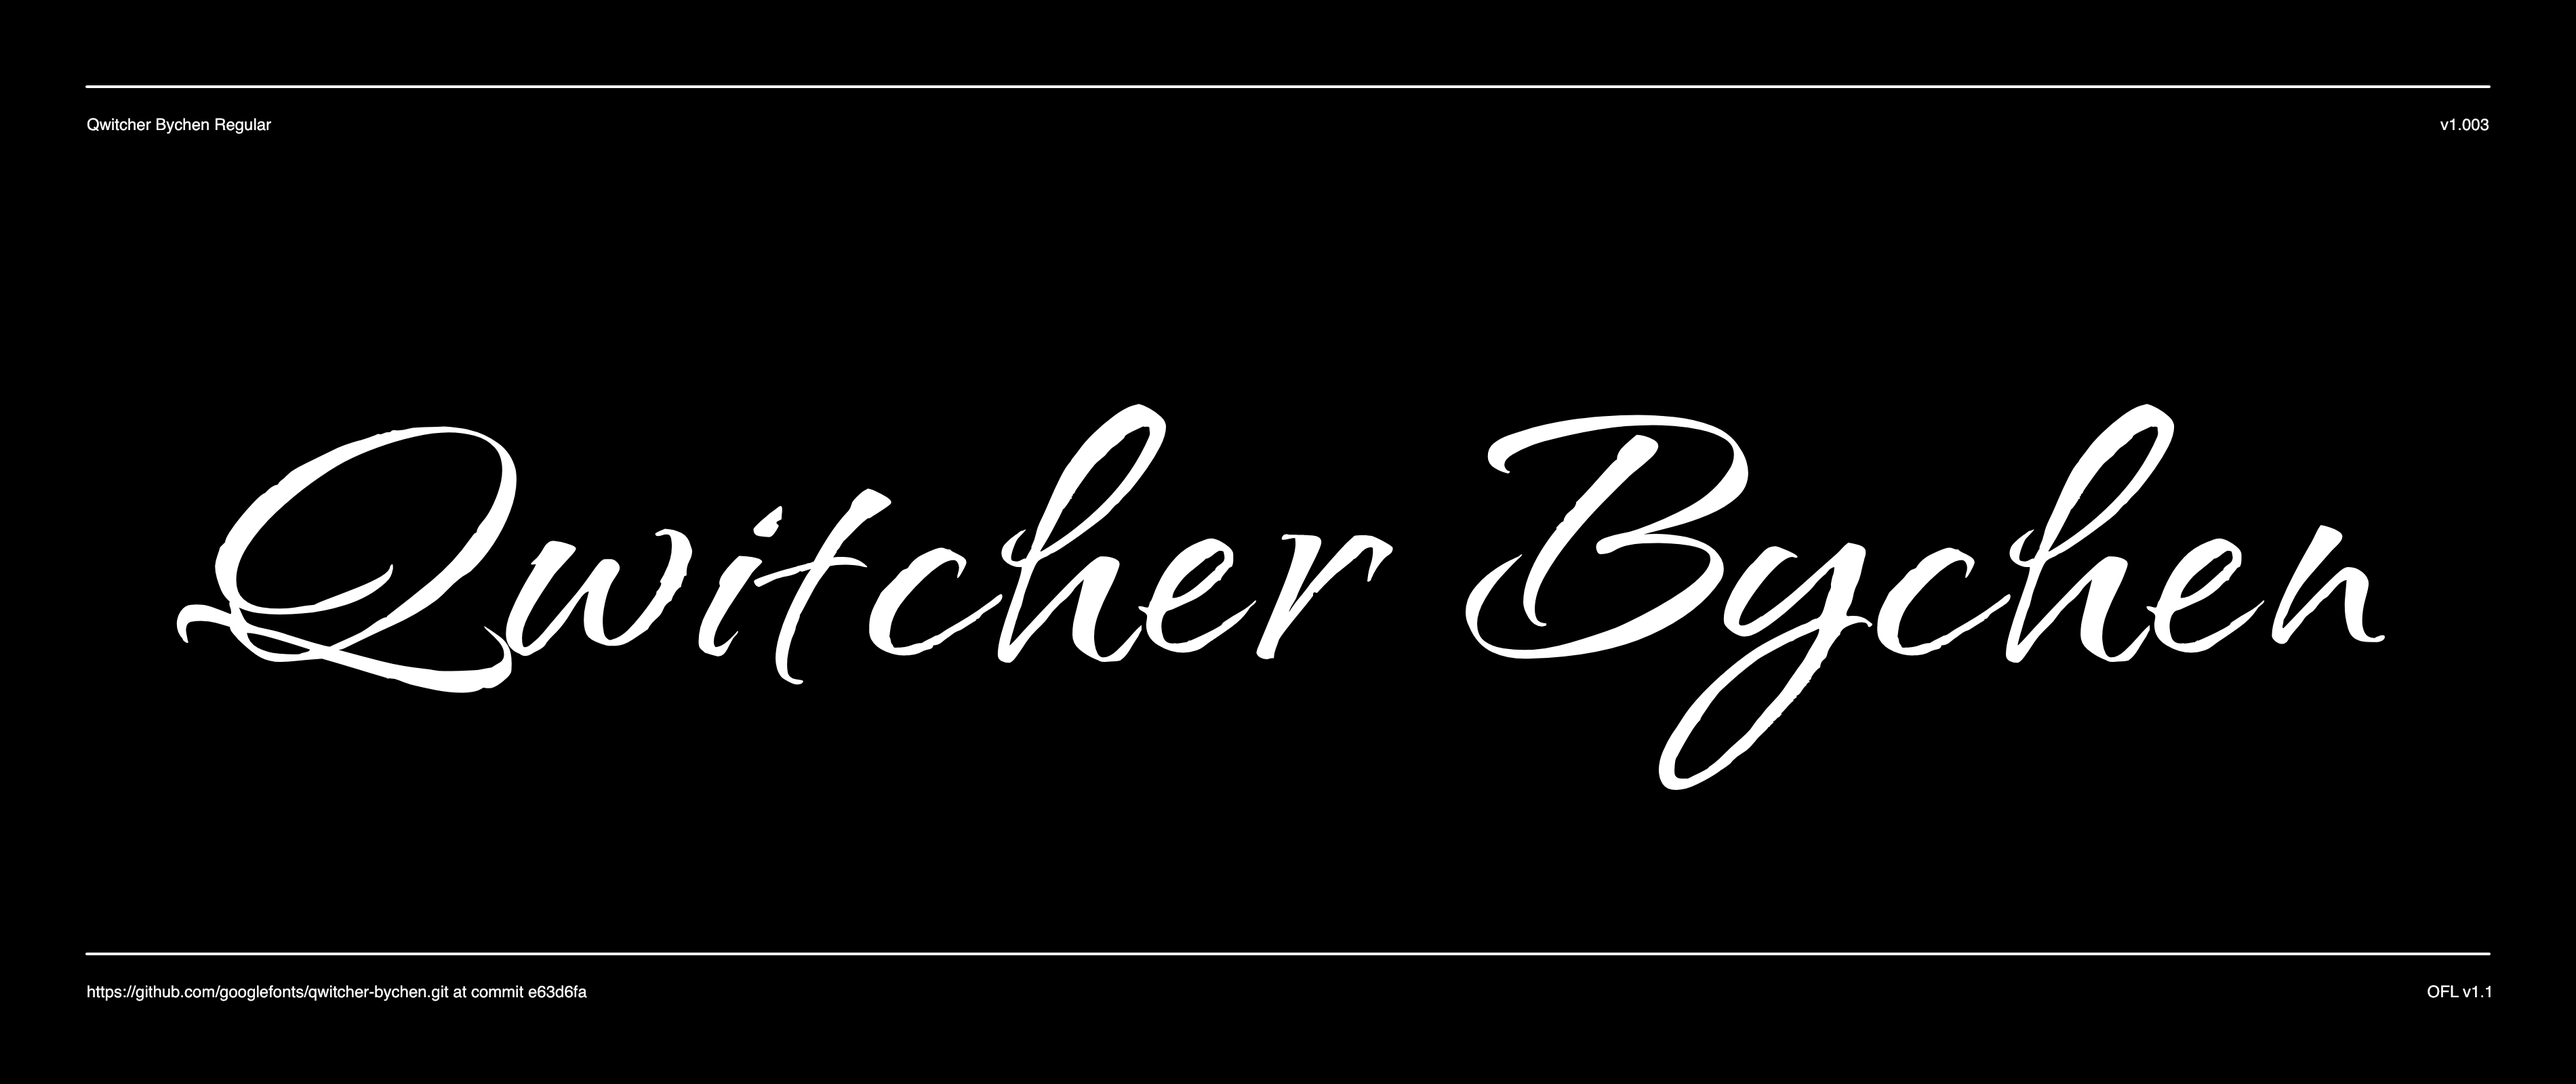
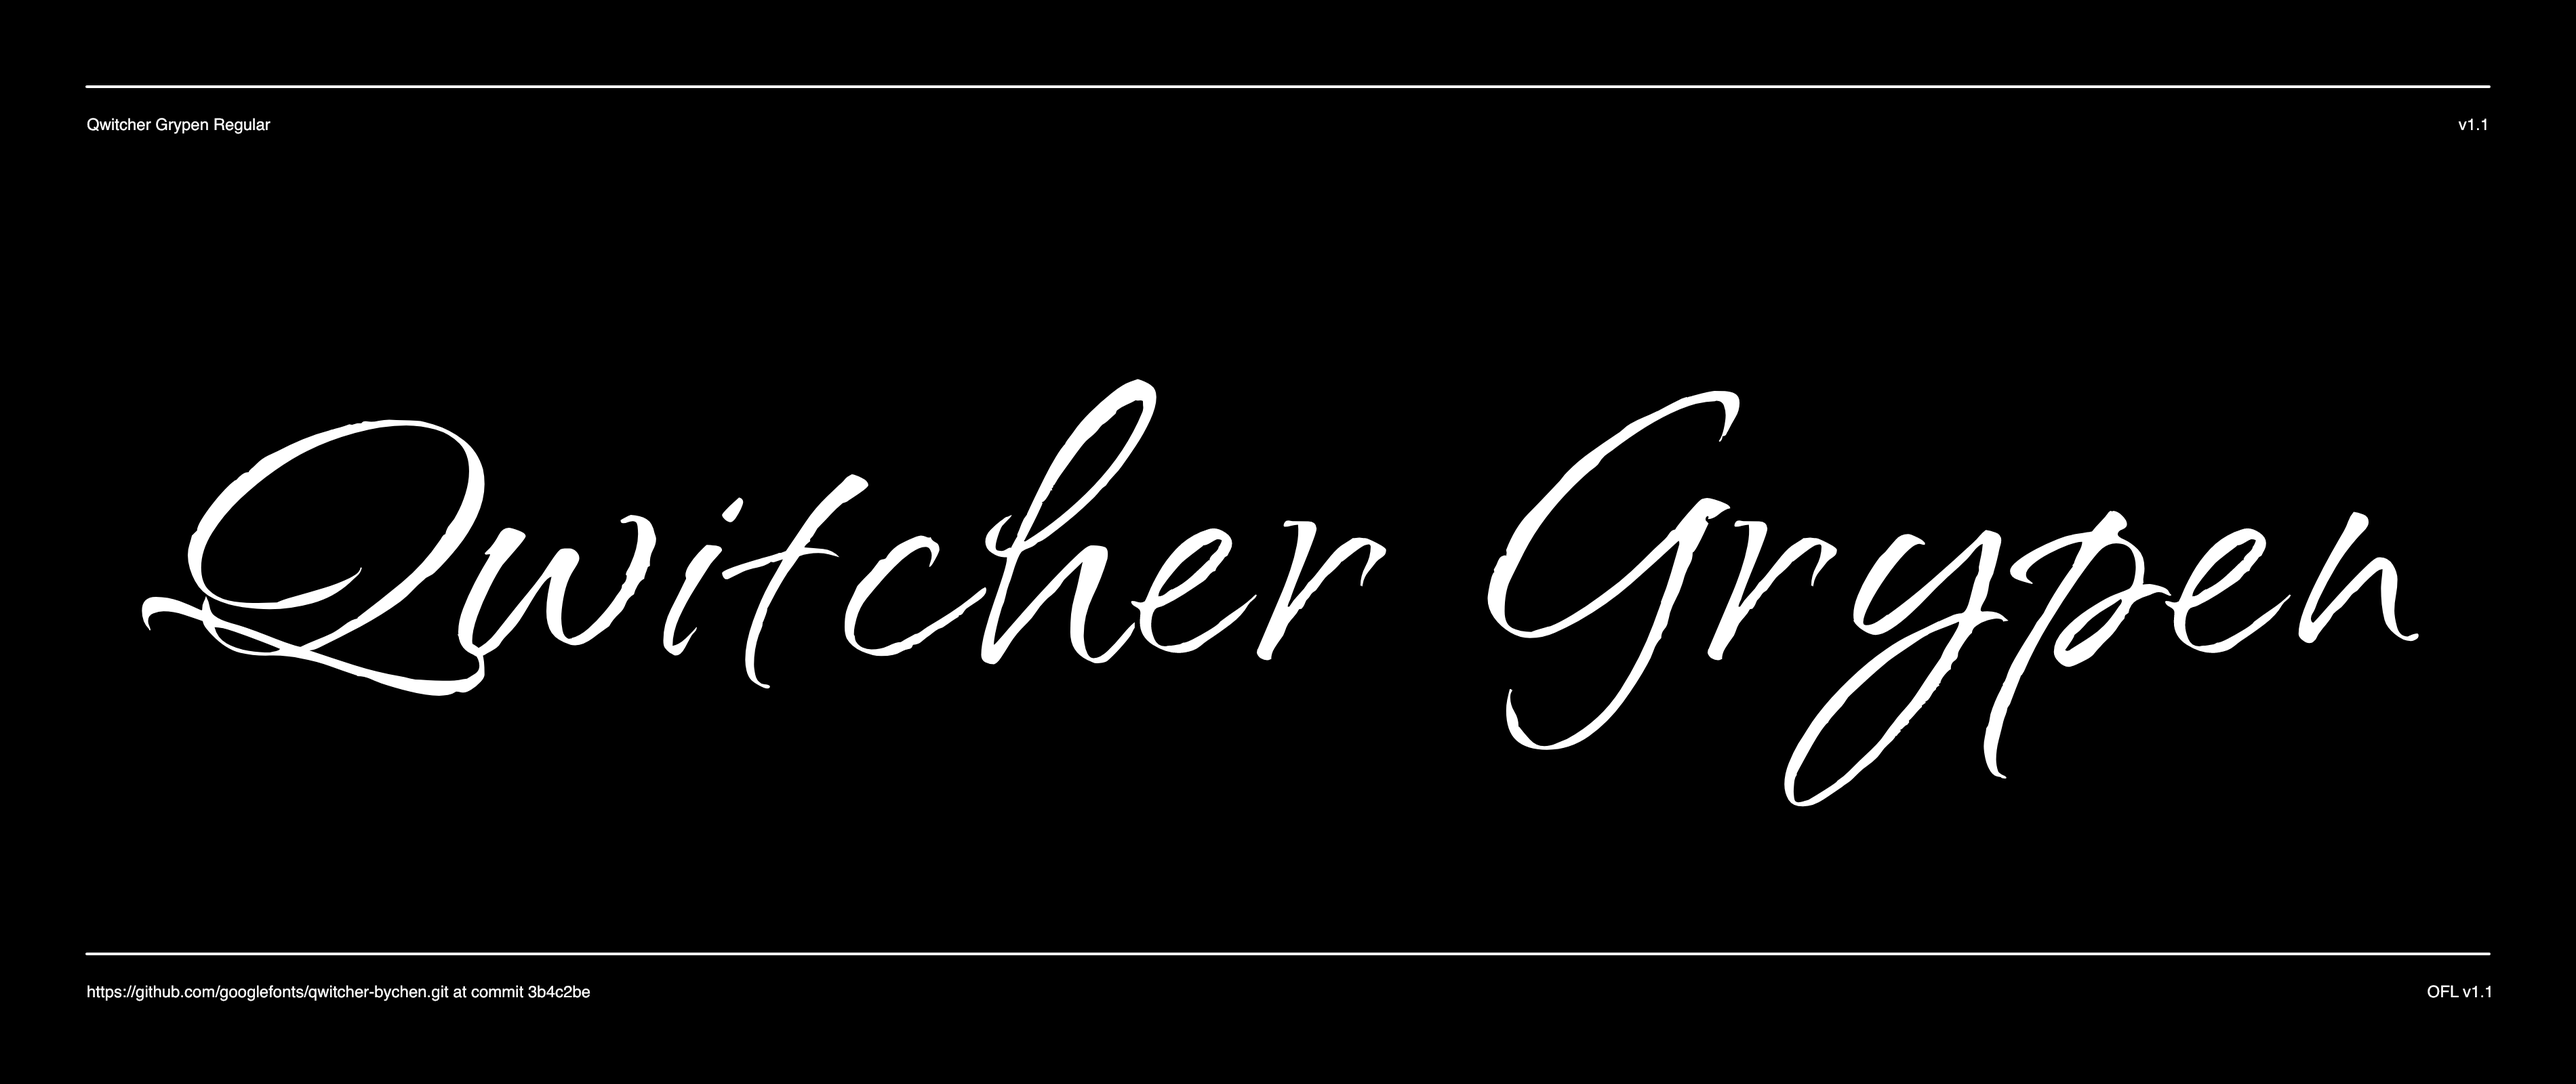
Readme file + sample image updated to Grypen

Changed region(s): [[0.0621, 0.3438, 0.9316, 0.75], [0.0621, 0.0938, 0.0932, 0.125]]

diff --git a/Documentation/image1.py b/Documentation/image1.py
@@ -16,13 +16,13 @@ import argparse
 
 # Constants, these are the main "settings" for the image
 WIDTH, HEIGHT, MARGIN, FRAMES = 3800, 1600, 128, 1
-FONT_PATH = "../fonts/ttf/QwitcherBychen-Regular.ttf"
+FONT_PATH = "../fonts/ttf/QwitcherGrypen-Regular.ttf"
 FONT_LICENSE = "OFL v1.1"
 AUXILIARY_FONT = "Helvetica"
 AUXILIARY_FONT_SIZE = 24
-BIG_TEXT = "Qwitcher Bychen"
-BIG_TEXT_FONT_SIZE = 680
-BIG_TEXT_SIDE_MARGIN = MARGIN * 2
+BIG_TEXT = "Qwitcher Grypen"
+BIG_TEXT_FONT_SIZE = 760
+BIG_TEXT_SIDE_MARGIN = MARGIN * 1.6
 BIG_TEXT_BOTTOM_MARGIN = MARGIN * 5
 GRID_VIEW = False # Change this to "True" for a grid overlay
 

diff --git a/README.md b/README.md
@@ -1,6 +1,6 @@
-# Qwitcher Bychen
+# Qwitcher Grypen
 
-Inspired by the letterforms that come from using an architectural ruling pen, QwitcherBychen is a casual brush script with a bit of an edge. Three weights can be used to successfully change sizes without compromising readability. 
+Inspired by the letterforms that come from using an architectural ruling pen, Qwitcher Grypen is a casual brush script with a bit of an edge. Three weights can be used to successfully change sizes without compromising readability. 
 
 ![Sample Image](Documentation/image1.png)
 
